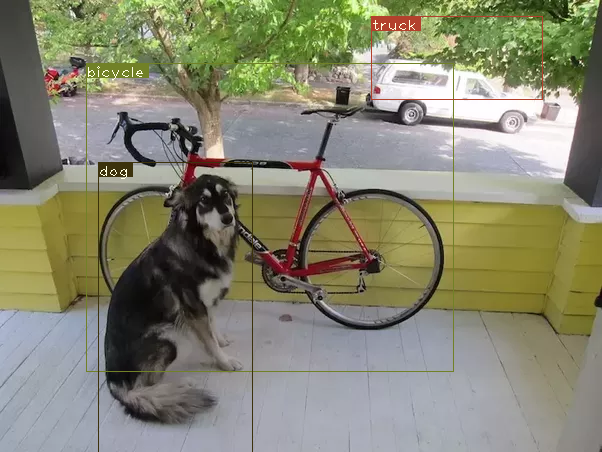
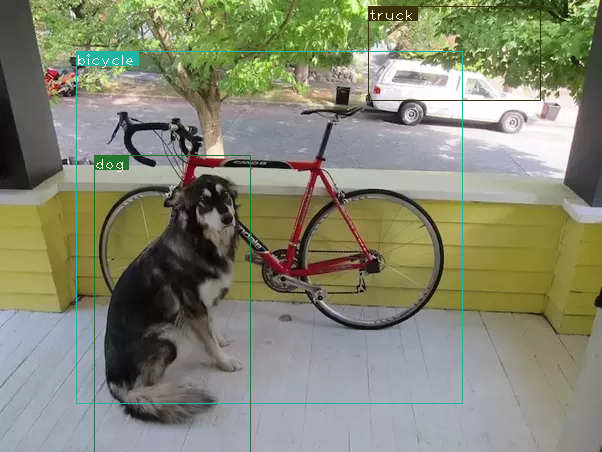
Specific resolutions work

diff --git a/util.py b/util.py
@@ -24,8 +24,8 @@ CUDA: CUDA flag
 def predict_transform(prediction, inp_dim, anchors, num_classes, CUDA=False):
 	batch_size = prediction.size(0)
 	stride = inp_dim // prediction.size(2)
-	# grid_size = inp_dim // stride
-	grid_size = int(prediction.size(2))
+	grid_size = inp_dim // stride
+	# grid_size = int(prediction.size(2))
 	bbox_attrs = 5 + num_classes		# 5 + C
 	num_anchors = len(anchors)
 

diff --git a/detect.py b/detect.py
@@ -109,7 +109,7 @@ model = Darknet(args.cfgfile).to(device)
 model.load_weights(args.weightsfile)
 print("Network successfully loaded")
 
-model.net_info["height"] = args.reso
+model.net_info["height"] = int(args.reso)
 inp_dim = int(model.net_info["height"])
 assert inp_dim % 32 == 0
 assert inp_dim > 32
